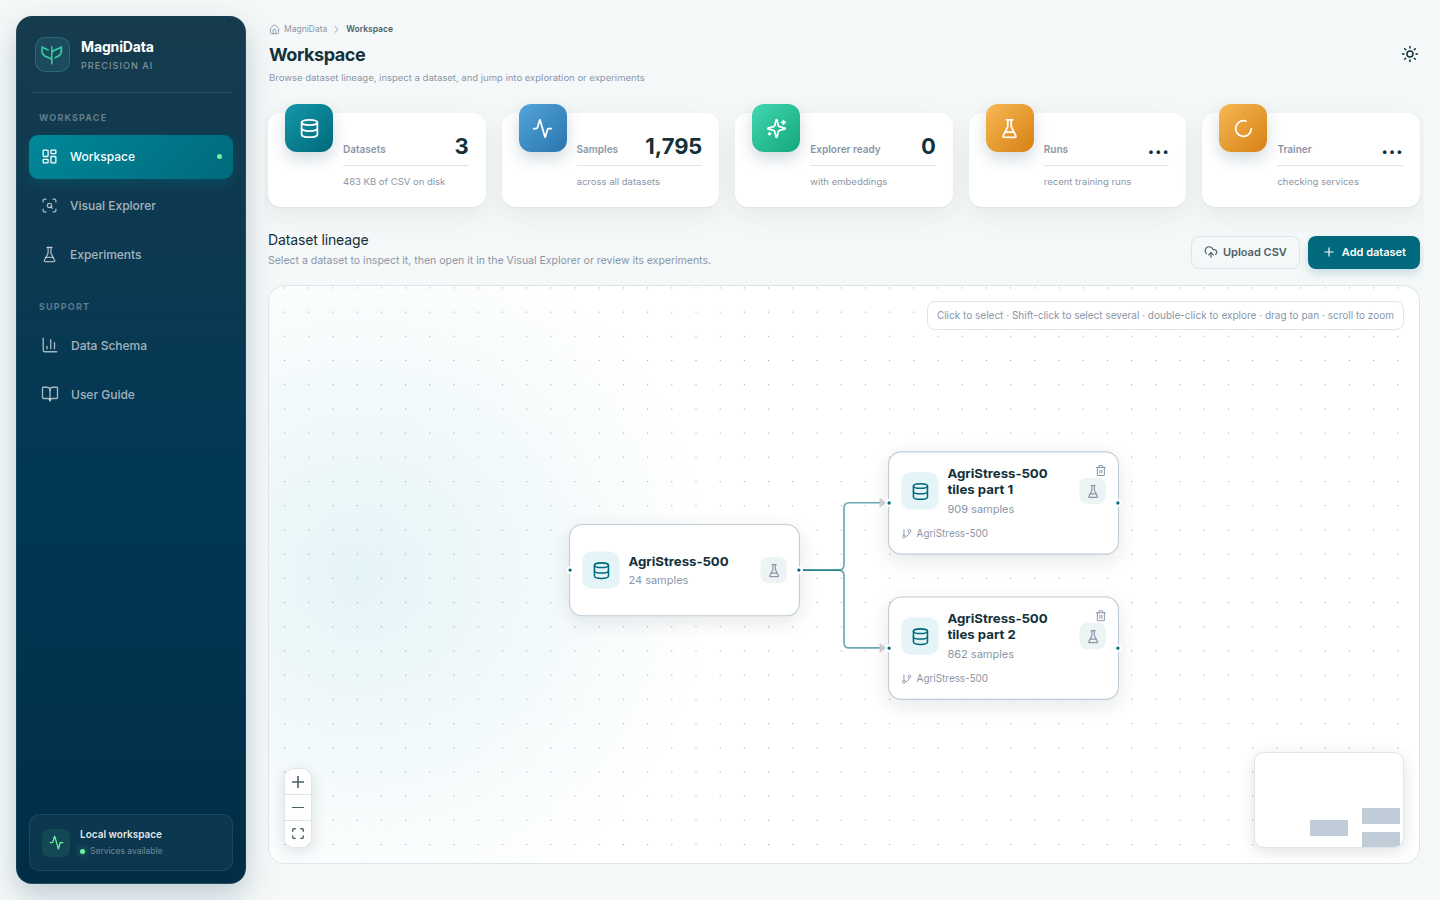
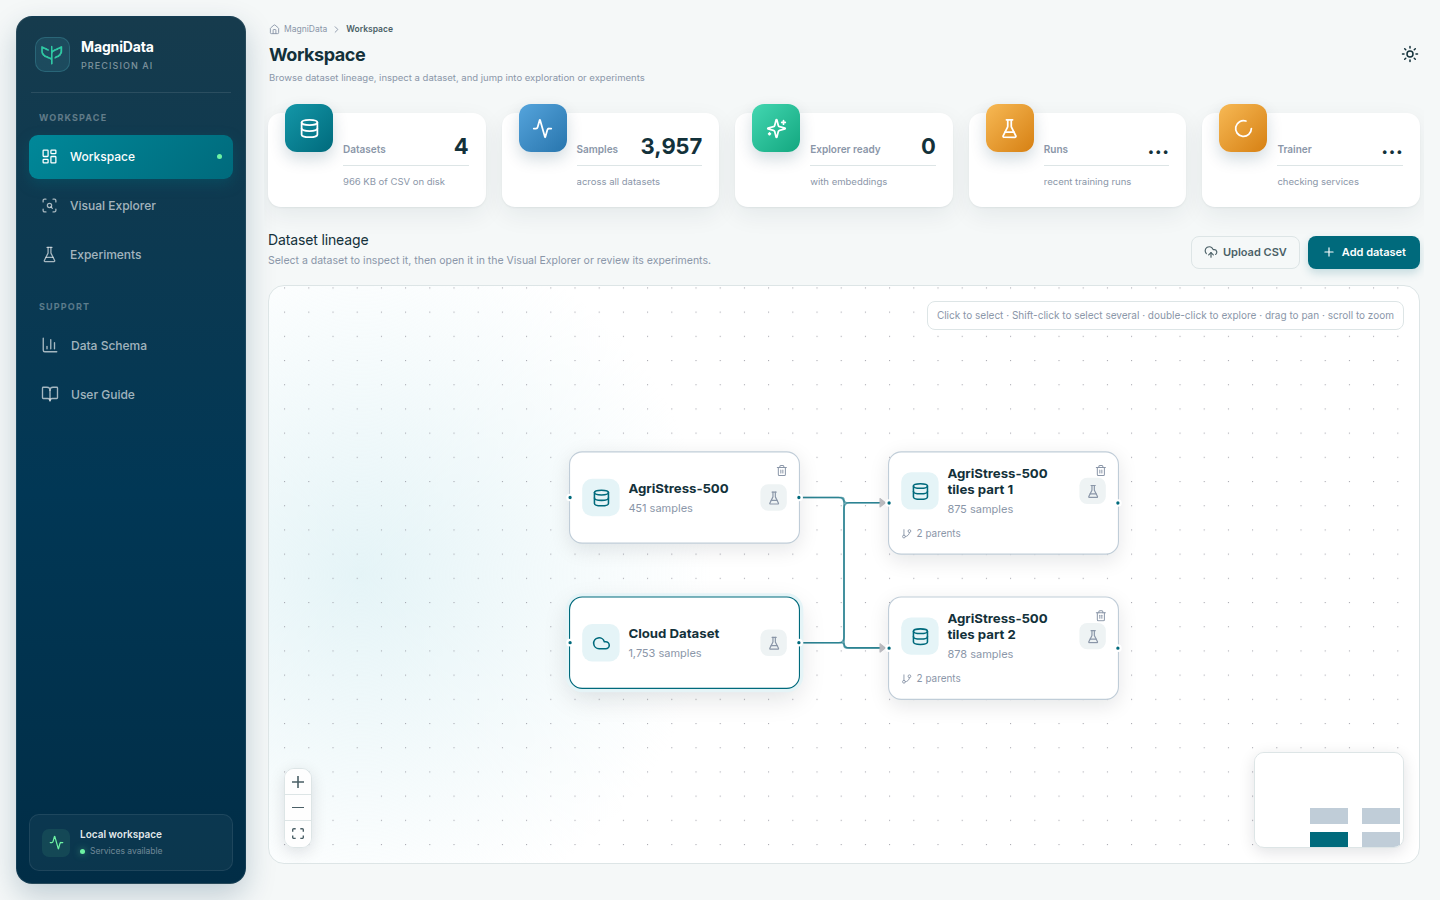
docs(guide): recapture the lineage screenshot with the Cloud Dataset card
Captured with capture-guide.mjs from a real partition run (875 + 878 tiles)
against a local API; callouts now point at all four cards. Also shows the
build's staging line in the sample output and words the partition tool's
conflict error more plainly.

diff --git a/precisionai/magnidata/dashboard/src/components/guide/chapters.tsx b/precisionai/magnidata/dashboard/src/components/guide/chapters.tsx
@@ -154,8 +154,10 @@ function Partition() {
   part 2: 4 images, 878 tiles
   part 1: writing 875 tiles to image_sets/agristress-500_tiles-part1
   part 2: writing 878 tiles to image_sets/agristress-500_tiles-part2
+  AgriStress-500 tiles part 1: staging 10% Indexing 875 images…
   AgriStress-500 tiles part 1: extracting_features 30% Extracting features…
   AgriStress-500 tiles part 1: done 100% Done
+  AgriStress-500 tiles part 2: staging 10% Indexing 878 images…
   AgriStress-500 tiles part 2: extracting_features 30% Extracting features…
   AgriStress-500 tiles part 2: done 100% Done
 Done. Open http://localhost:5175 to see the sub-datasets under data_user/agristress500.csv in the lineage graph.`}</Output>
@@ -167,10 +169,10 @@ Done. Open http://localhost:5175 to see the sub-datasets under data_user/agristr
           <strong> Complement</strong> draws similar images from (chapter 6). It is protected, so it has no trash icon.</p>
       </Expect>
       <Shot name="workspace-lineage" callouts={[
-        { x: 22, y: 50, text: 'The source dataset' },
-        { x: 70, y: 36, text: 'A tiled sub-dataset (part 1)' },
-        { x: 70, y: 70, text: 'A tiled sub-dataset (part 2)' },
-        { x: 22, y: 80, text: 'Cloud Dataset, the union of both parts' },
+        { x: 40, y: 51, text: 'The source dataset' },
+        { x: 62, y: 51, text: 'A tiled sub-dataset (part 1)' },
+        { x: 62, y: 67, text: 'A tiled sub-dataset (part 2)' },
+        { x: 40, y: 67, text: 'Cloud Dataset, the union of both parts and their second parent' },
       ]} />
       <h3>What it did</h3>
       <ul>

diff --git a/precisionai/magnidata/scripts/partition_dataset.py b/precisionai/magnidata/scripts/partition_dataset.py
@@ -432,7 +432,9 @@ def tile_parts(
     stale = stale_folders(args, plan, images)
     if stale and not args.rebuild:
         listing = ", ".join(str(folder) for folder in stale)
-        raise ValueError(f"{listing} hold(s) tiles from an earlier run with other options; {REBUILD_HINT}")
+        raise ValueError(
+            f"these part folders hold tiles from an earlier run with other options: {listing}; {REBUILD_HINT}"
+        )
     if stale:
         clear_stale(args, stale)
     by_name = {image.name: image for image in images}

diff --git a/CHANGELOG.md b/CHANGELOG.md
@@ -77,8 +77,8 @@ and this project adheres to [Semantic Versioning](https://semver.org/spec/v2.0.0
   and other modes PNG cannot store are converted instead of crashing the run, and two source images with the same
   file name are refused, since their tiles would overwrite each other.
 - The User Guide's partition chapter shows the output and cards a real run produces: 1,753 tiles (875 + 878), and a
-  third card, Cloud Dataset, drawn as a second parent of each part. The first training run's CPU time now reads
-  around ten minutes rather than a few. `scripts/capture-guide.mjs` finds Playwright's Chromium on linux arm64 and
+  third card, Cloud Dataset, drawn as a second parent of each part, with the lineage screenshot recaptured from a real
+  run to match. The first training run's CPU time now reads around ten minutes rather than a few. `scripts/capture-guide.mjs` finds Playwright's Chromium on linux arm64 and
   macOS as well as linux x64.
 
 ## [0.1.1] - 2026-10-27
